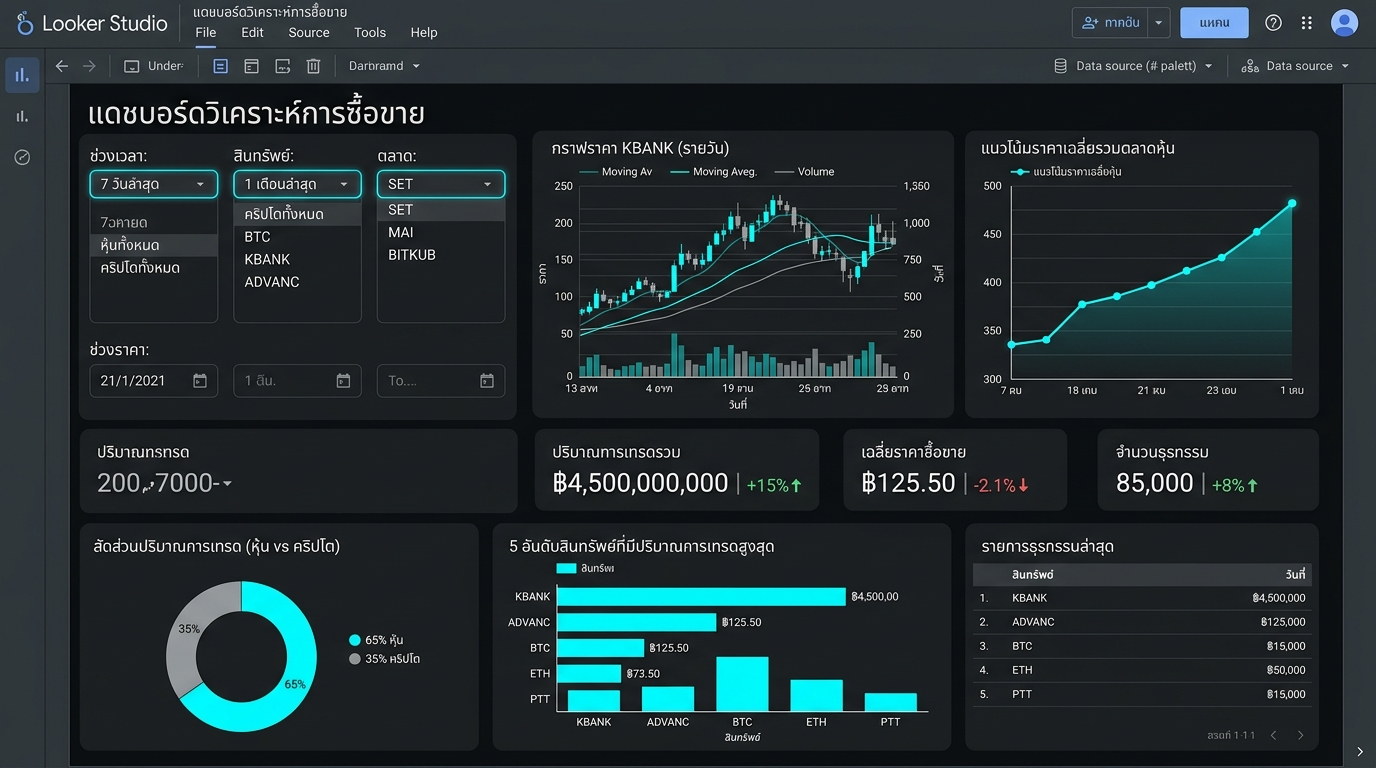
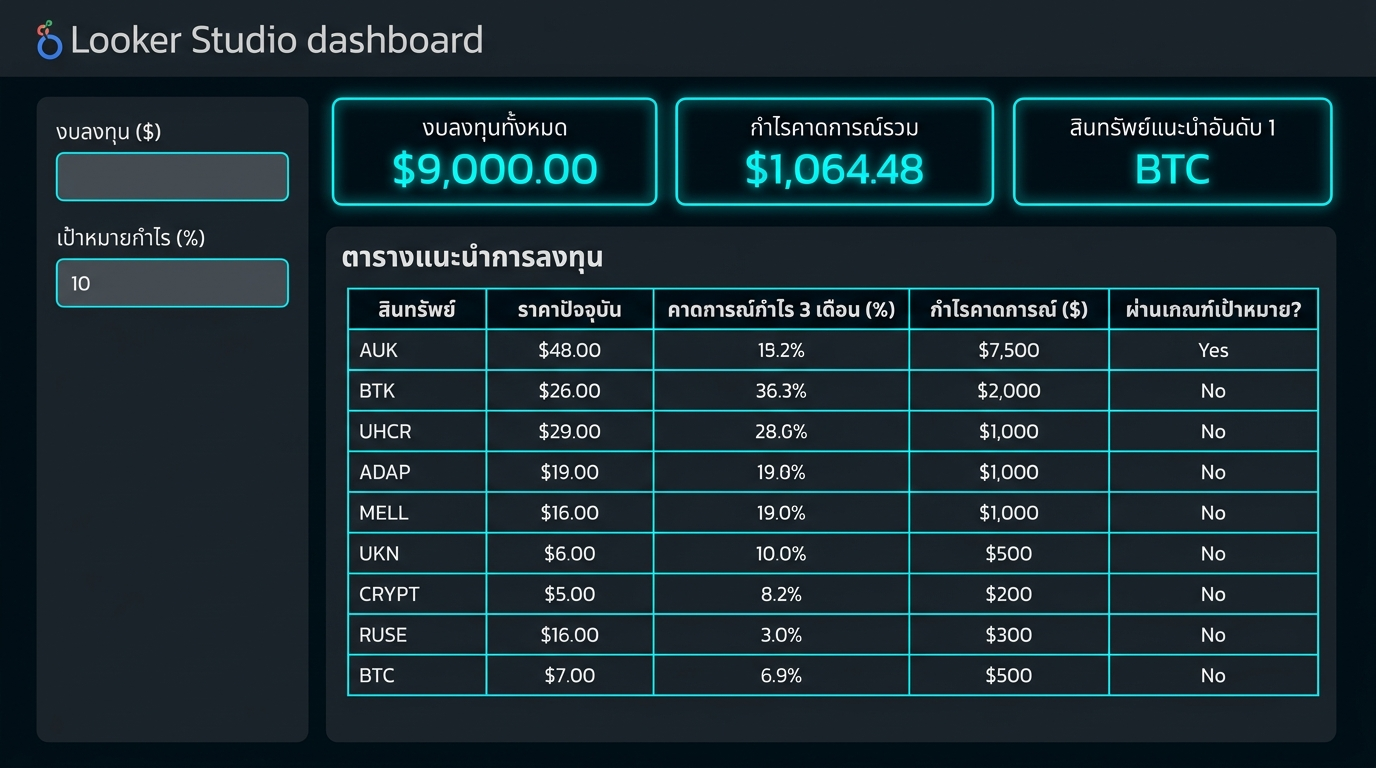
Add component definitions, design principles, and term definitions to READMEs

diff --git a/README_th.md b/README_th.md
@@ -130,6 +130,35 @@ docker exec -it sharp-maxwell-clickhouse-1 clickhouse-client --query "SELECT * F
 - **สิ่งที่เราทำ**: ตัวเขียนสตรีม WebSocket ถูกรันแยกเป็น Docker service ตัวใหม่ (`streamer`) โดยไม่ได้รันอยู่ในขอบเขตของ Airflow
 - **ทำไมไม่รันงานสตรีมมิ่งใน Airflow?**: Airflow ถูกออกแบบมาสำหรับจัดการงานที่เป็นรอบๆ (Batch Workflow) ที่มีเวลาเริ่มต้นและสิ้นสุดชัดเจน การนำสคริปต์สตรีมมิ่งที่ต้องรันค้าง 24 ชั่วโมงไปใส่ไว้ใน Airflow Task (เช่น PythonOperator) จะล็อกการทำงานของ Airflow Worker, ทำให้ระบบตรวจสอบสถานะพัง, เปลืองทรัพยากร และสุ่มเสี่ยงทำให้คิวงานอื่นระเบิด
 
+### 3. รายละเอียดและวัตถุประสงค์ของแต่ละองค์ประกอบ (Component Objectives)
+เพื่อให้เข้าใจเป้าหมายของระบบอย่างชัดเจน นี่คือวัตถุประสงค์หลักของแต่ละองค์ประกอบ:
+- **ตัวดึงข้อมูลสตรีมมิ่ง (Ingestion Daemon - `streamer`)**: รักษาการเชื่อมต่อผ่าน WebSocket เพื่อดึงข้อมูลดิบในระดับมิลลิวินาที พักข้อมูลไว้ในหน่วยความจำ และเขียนลงฐานข้อมูลเป็นชุด (Micro-batches) เพื่อลดปัญหา Network และ Write I/O overhead
+- **คลังข้อมูลเชิงวิเคราะห์ (Data Warehouse - `clickhouse-server`)**: บันทึกข้อมูลปริมาณมหาศาลแบบคอลัมน์ (Columnar Database) ด้วยเอนจิน `MergeTree` เพื่อให้คิวรีหาค่าเฉลี่ยและสถิติต่างๆ ในระดับวินาที/นาที ทำงานได้อย่างรวดเร็ว
+- **ตัวแปลงข้อมูลและทำความสะอาด (Transformation - `dbt`)**: มีวัตถุประสงค์ในการทำความสะอาด จัดโครงสร้าง Star Schema แยกตารางมิติ (Dimension) และตารางข้อเท็จจริง (Fact) และสรุปยอดมาร์ทวิเคราะห์ โดยคำนวณแบบยิงคิวรีรันในฐานข้อมูลโดยตรง (In-Database Processing)
+- **ตัวกำหนดรอบเวลาทำงาน (Orchestrator - `airflow`)**: ควบคุมจังหวะเวลา (Schedule) ในการสั่งงาน dbt ให้ประมวลผลข้อมูลตามรอบ (เช่น รายวัน/รายชั่วโมง) และทำการทดสอบคุณภาพข้อมูล (Data Quality Test) เพื่อลดความซ้ำซ้อนของการประมวลผล
+- **ระบบนำเสนอผล (BI Dashboard - `Looker Studio`)**: มอบหน้าจอใช้งาน (User Interface) ที่นักลงทุนสามารถกรอกงบประมาณและเป้าหมายกำไรแบบ Parameter โต้ตอบได้ เพื่อแสดงสรุปรายชื่อหุ้นแนะนำได้ทันทีโดยไม่ต้องมีความเชี่ยวชาญด้านกราฟเทคนิค
+
+### 4. หลักการออกแบบระบบ (Design Principles)
+สถาปัตยกรรมนี้อิงตามหลักการสำคัญ 3 ประการ:
+1. **Separation of Concerns (SoC - การแยกหน้าที่ต่างขอบเขต)**: งานสตรีมมิ่งเก็บข้อมูลแบบ Long-running และงานแปลงข้อมูลแบบ Batch-run จะถูกแยกออกจากกันโดยสิ้นเชิง เพื่อไม่ให้ระบบคิวของงานชนิดใดชนิดหนึ่งล่มแล้วส่งผลกระทบต่อกัน
+2. **ELT (Extract, Load, Transform)**: บันทึกข้อมูลดิบเข้าสู่คลังข้อมูลให้เร็วที่สุดโดยไม่ทำการประมวลผลระหว่างทาง เพื่อป้องกันไม่ให้ข้อมูลธุรกรรมสูญหาย และเปิดโอกาสให้แปลงข้อมูลซ้ำกี่ครั้งก็ได้โดยใช้ dbt 
+3. **Dimensional Modeling (Star Schema - การทำแบบจำลองมิติ)**: แปลงฐานข้อมูล OBT (One Big Table) ให้กลายเป็นความสัมพันธ์แบบดวงดาว (Star Schema) ประกอบด้วย Fact (ตารางธุรกรรม) และ Dimension (ตารางข้อมูลประกอบ) เพื่อให้โมเดลข้อมูลมีความยืดหยุ่น ประหยัดพื้นที่เก็บข้อมูล และสนับสนุนการดึงข้อมูลหลากหลายมุมมองได้ง่าย
+
+### 5. การกำหนดนิยามศัพท์เพื่อลดความกำกวม (Definitions of Ambiguous Terms)
+เพื่อตอบโจทย์ทางธุรกิจได้อย่างชัดเจนและลดความคลุมเครือของศัพท์เทคนิค เราจึงนิยามความหมายของตัวแปรหลักบนแดชบอร์ดดังนี้:
+1. **"ความหลากหลาย / ความผันแปรของราคา" (Price Diversity / Volatility)**: 
+   - *นิยามทางเทคนิค*: วัดผ่านค่า **Price Spread** ($=$ ราคาสูงสุด $-$ ราคาต่ำสุดภายใน 1 นาที) และค่า **Relative Volatility Spread** ($=$ ส่วนต่างราคา $/$ ราคาเปิดในช่วงเวลานั้น)
+   - *ความหมายทางธุรกิจ*: สินทรัพย์ที่มี Spread สูงสะท้อนว่ามีระดับความหลากหลายในการประมูลราคาสูงและมีความผันผวน เหมาะสำหรับทำกำไรระยะสั้น
+2. **"กำไรคาดการณ์ในระยะ 3 เดือน" (Estimated 3-Month Gain)**:
+   - *นิยามทางเทคนิค*: คำนวณเป็นสัดส่วนคงที่เท่ากับ **25% ของราคาเป้าหมายเฉลี่ยในระยะเวลา 1 ปี (1-Year Analyst Target Price)** ที่ประเมินโดยกลุ่มนักวิเคราะห์ Wall Street
+   - *ความหมายทางธุรกิจ*: เป็นตัวเลขคาดการณ์แบบระมัดระวัง (Conservative) สำหรับใช้ประเมินทิศทางผลตอบแทนระยะสั้นในอีก 3 เดือนข้างหน้า
+3. **"สัญญาณคำแนะนำส่วนใหญ่" (Consensus Rating)**:
+   - *นิยามทางเทคนิค*: คำนวณโดยอิงจากสัดส่วนเสียงโหวตทั้งหมดของนักวิเคราะห์ (Total analyst ratings) โดยมีเกณฑ์ดังนี้:
+     - **Strong Buy (แนะนำซื้ออย่างยิ่ง)**: เมื่อมีนักวิเคราะห์แนะนำซื้อ (Strong Buy + Buy) คิดเป็นสัดส่วนมากกว่า $70\%$ ของจำนวนทั้งหมด
+     - **Buy (แนะนำซื้อ)**: เมื่อมีนักวิเคราะห์แนะนำซื้อ คิดเป็นสัดส่วน $50\% - 70\%$ ของจำนวนทั้งหมด
+     - **Sell (แนะนำขาย)**: เมื่อมีคำแนะนำขาย (Sell + Strong Sell) มากกว่า $30\%$
+     - **Hold (แนะนำถือ)**: กรณีอื่น ๆ ที่อยู่นอกเกณฑ์ข้างต้น
+
 ---
 
 ## คำตอบคำถามการบ้าน (Homework Answers)

diff --git a/README.md b/README.md
@@ -89,6 +89,35 @@ This pipeline employs a highly decoupled architecture following production-grade
 ### 2. Streaming Outside Airflow
 - **Why not run ingestion inside Airflow?** Running a long-running WebSocket subscription or streaming daemon inside an Airflow worker task (e.g., using PythonOperator) is an anti-pattern and overkill. Airflow is designed to coordinate short-lived, stateless, batch task processes. Running a continuous streaming job inside Airflow locks up workers, violates task isolation, makes scheduler health checks fragile, and leads to unstable execution. Instead, the streamer runs as a dedicated, lightweight Docker container, completely external to Airflow.
 
+### 3. Component Details & Objectives
+To clarify the purpose of each service in the stack, we define their objectives below:
+- **Ingestion Daemon (`streamer` service)**: Pulls high-frequency trading data at millisecond levels, buffers events in-memory, and commits them to ClickHouse in micro-batches to optimize network and I/O efficiency.
+- **Data Warehouse (`clickhouse-server`)**: Stores massive transactional events in a column-oriented storage format using the `MergeTree` engine, allowing microsecond analytical aggregations.
+- **Transformation Tool (`dbt`)**: Responsible for cleansing raw logs, structuring them into a Star Schema (Core dimensional models), and building marts. All queries run in-database (ELT).
+- **Workflow Orchestrator (`airflow`)**: Manages the schedule for triggering dbt transformations and executes automated data quality checks, eliminating redundant computations.
+- **BI Interface (`Looker Studio`)**: Exposes an interactive financial advisor panel where investors can query calculations dynamically using input budget and profit targets.
+
+### 4. Design Principles
+Our architectural design relies on three core tenets:
+1. **Separation of Concerns (SoC)**: Keeps long-running streaming services separate from batch processing. A failure in the streaming container does not impact task coordination inside Airflow.
+2. **ELT (Extract, Load, Transform)**: Data is written directly to the database as-is without inline processing to prevent data loss. Transformations are deferred to dbt inside ClickHouse.
+3. **Dimensional Modeling (Star Schema)**: Transforms flat OBT datasets into structured dimensions (`dim_assets`) and transactional facts (`fct_trades`) to ensure model durability, logical relationships, and multiple perspectives.
+
+### 5. Definitions of Ambiguous Terms
+To reduce business logic ambiguity, we define key terms used in our pipeline:
+1. **"Price Diversity / Volatility"**: 
+   - *Technical Definition*: Calculated using **Price Spread** ($=$ High price $-$ Low price inside a 1-minute window) and **Relative Volatility Spread** ($=$ Price Spread $/$ Open Price).
+   - *Business Interpretation*: Higher spreads represent diverse bid/ask valuations, indicating trading volatility suitable for short-term gains.
+2. **"Estimated 3-Month Gain"**:
+   - *Technical Definition*: Defined as a conservative estimate calculated as **25% of the 1-year analyst consensus target price growth** (`target_median` relative to `current_price`).
+   - *Business Interpretation*: A normalized near-term benchmark for forecasting returns.
+3. **"Consensus Rating"**:
+   - *Technical Definition*: Calculated based on analyst buy/sell ratios:
+     - **Strong Buy**: If Buy + Strong Buy ratings $> 70\%$ of total analyst ratings.
+     - **Buy**: If Buy + Strong Buy ratings are between $50\% - 70\%$.
+     - **Sell**: If Sell + Strong Sell ratings $> 30\%$.
+     - **Hold**: All other distributions.
+
 ---
 
 ## Business Questions & Dashboard Metrics Mapping
